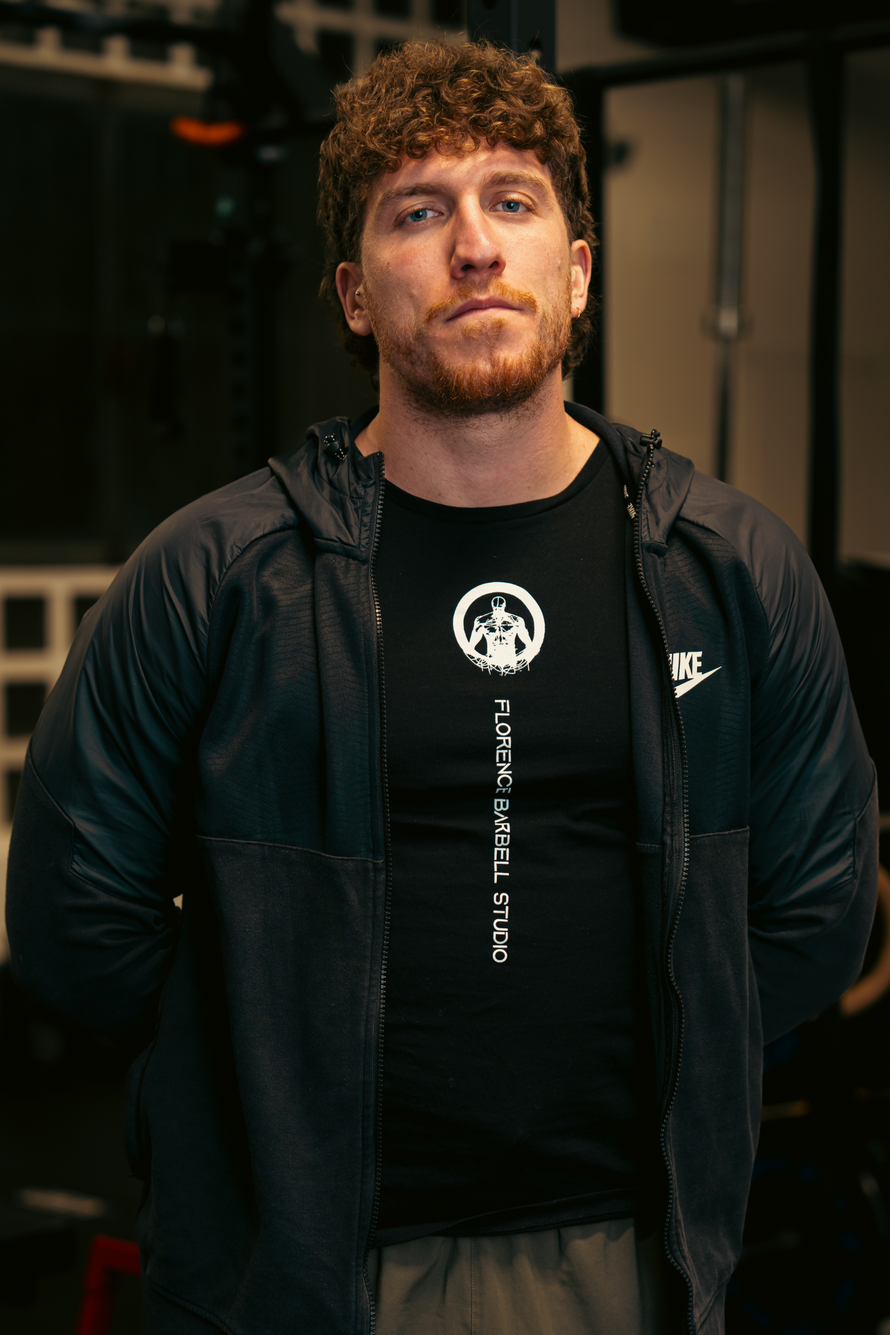
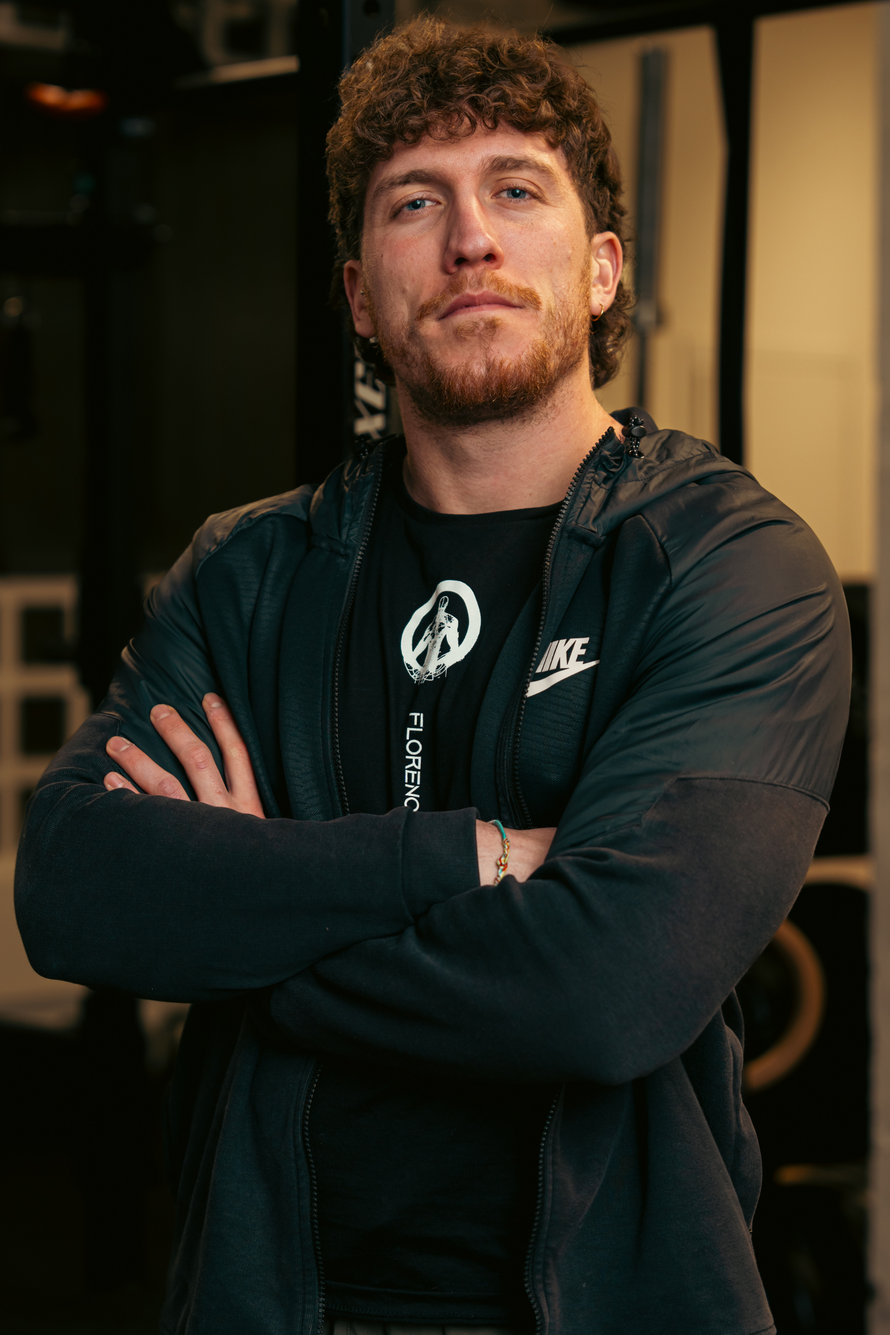
cambiata immagine a macchioni

diff --git a/src/components/staff/staff.module.scss b/src/components/staff/staff.module.scss
@@ -31,7 +31,7 @@
   &__image {
     position: relative;
     width: 349px;
-    height: 490px;
+    height: 520px;
     @media #{$tablet} {
       width: 320px;
       height: 400px;
